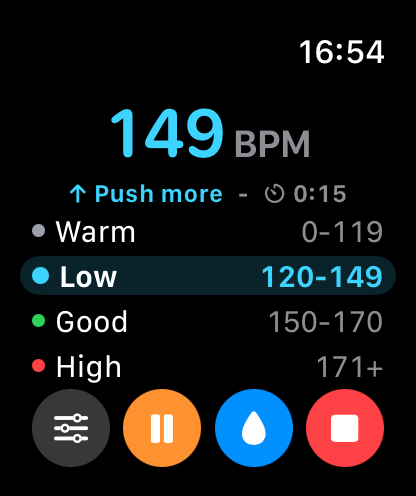
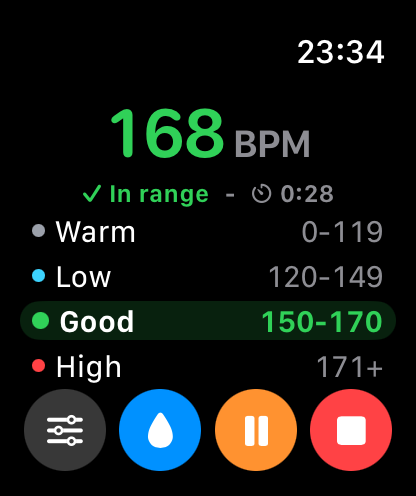
Use 168 BPM screenshot as main image

diff --git a/index.html b/index.html
@@ -41,7 +41,7 @@
 
         <div class="app-preview" aria-label="Current HeartBetter Apple Watch activity screen">
           <figure class="screen-card screen-card-main">
-            <img src="assets/apple-watch-46mm-active.png" alt="HeartBetter activity screen showing 149 BPM, range guidance, heart-rate ranges, and session controls.">
+            <img src="assets/apple-watch-46mm-active.png" alt="HeartBetter activity screen showing 168 BPM, range guidance, heart-rate ranges, and session controls.">
           </figure>
         </div>
       </section>